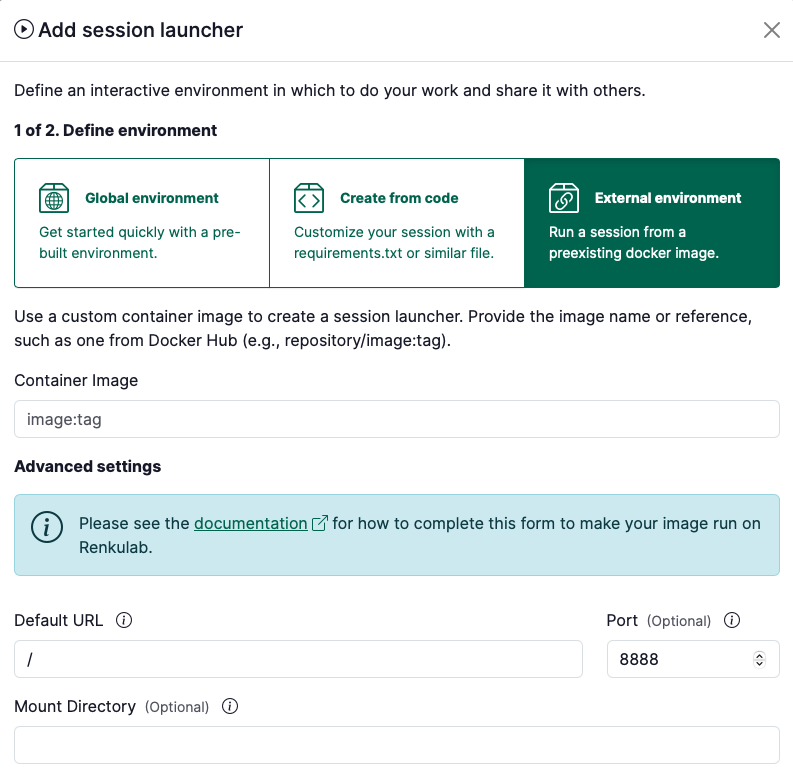
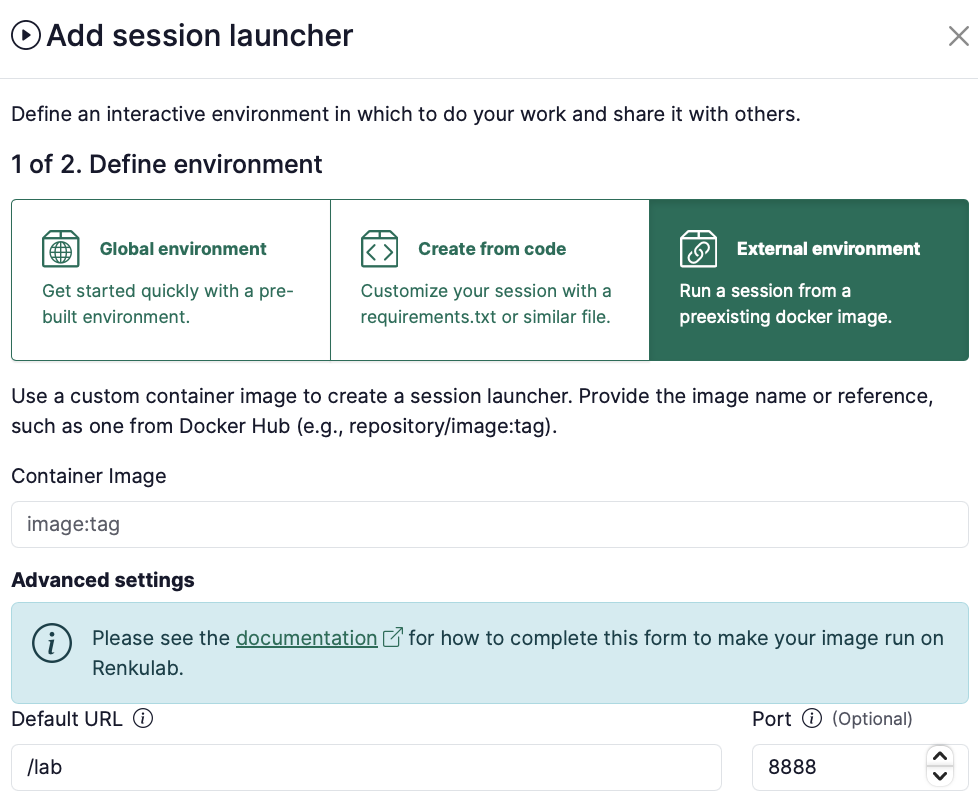
screenshot udpdated

diff --git a/docs/docs/10-users/60-sessions/guides/45-use-your-own-docker-image-for-renku-session.md b/docs/docs/10-users/60-sessions/guides/45-use-your-own-docker-image-for-renku-session.md
@@ -47,7 +47,7 @@ In the project page:
 
         The only additional parameter you have to provide in the session launcher creation dialog is the `Default URL` and this should be set to `/lab`.
 
-        ![image.png](./use-your-own-docker-image-for-renku-session-20.png)
+        ![image.png](./use-your-own-docker-image-for-renku-session-30.png)
 
     - I’m using an image created by **Renku** and that is **older** than version 0.24.0 (the version number is in the image tag).
 
